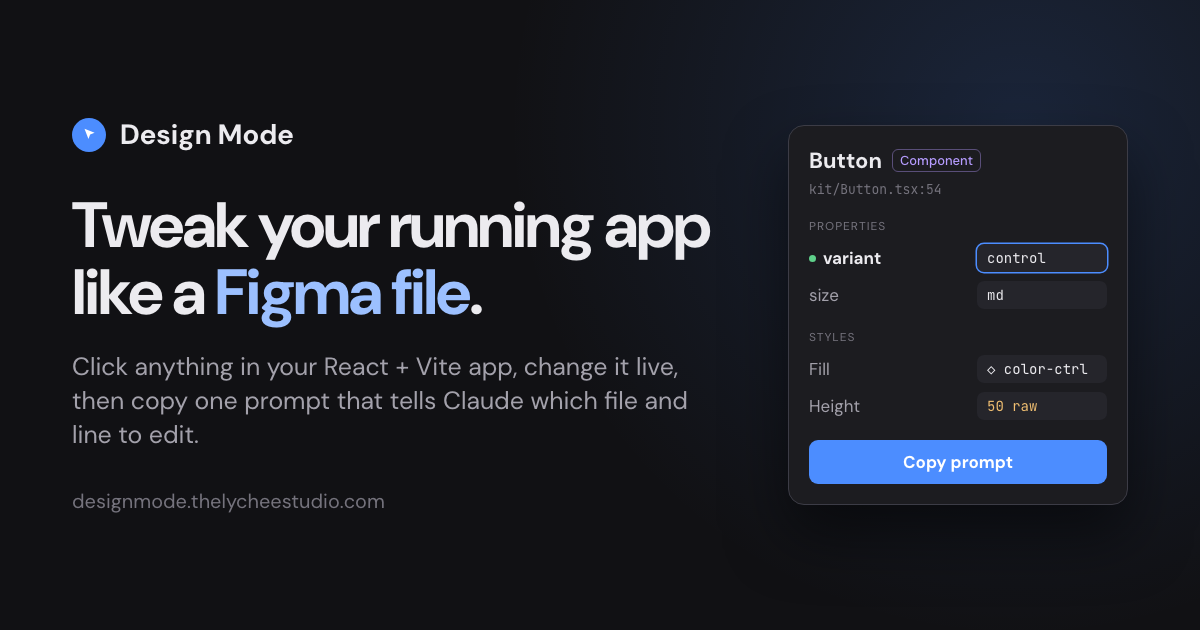
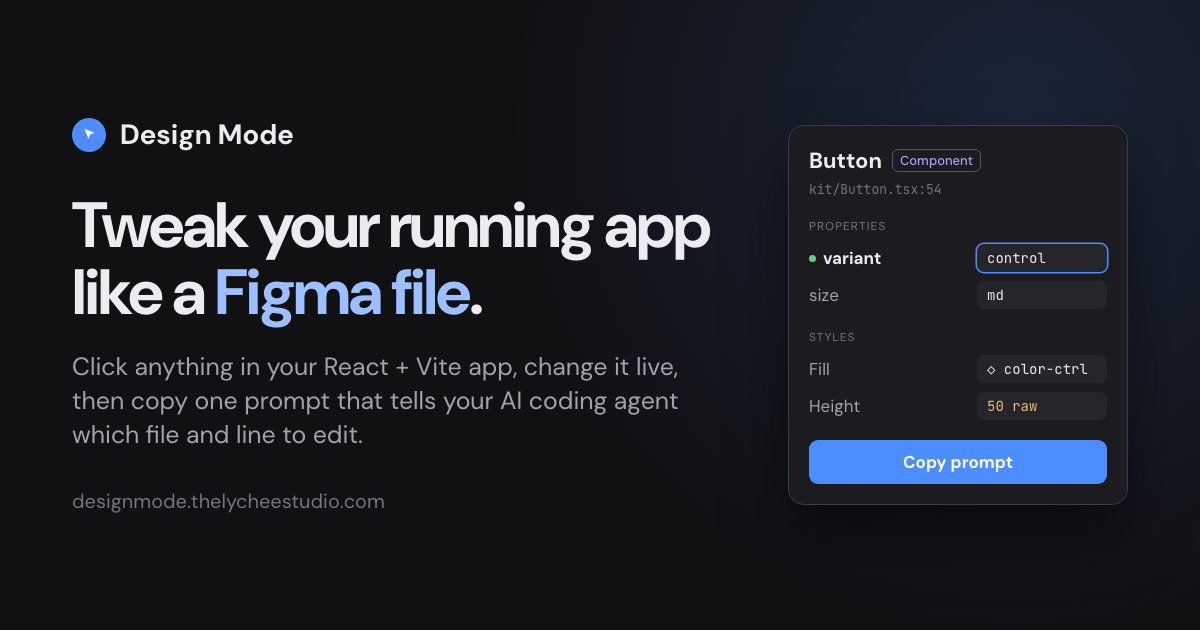
Say 'your coding agent' instead of Claude: the prompt works with any agent

Changed region(s): [[0.0617, 0.6635, 0.3083, 0.7238], [0.37, 0.6032, 0.5858, 0.6635]]

diff --git a/site/index.html b/site/index.html
@@ -3,15 +3,15 @@
 <head>
 <meta charset="utf-8">
 <meta name="viewport" content="width=device-width, initial-scale=1">
-<title>Design Mode: visual editing for React apps, built for Claude</title>
-<meta name="description" content="A free dev-only design inspector for React + Vite. Click anything in your running app, edit props, variants, styles and text live, then copy one prompt for Claude.">
+<title>Design Mode: visual editing for React apps and AI coding agents</title>
+<meta name="description" content="A free dev-only design inspector for React + Vite. Click anything in your running app, edit props, variants, styles and text live, then copy one prompt for any AI coding agent: Claude Code, Cursor, Codex or Copilot.">
 <link rel="canonical" href="https://designmode.thelycheestudio.com/">
 <meta name="robots" content="index, follow, max-image-preview:large">
 <meta name="author" content="Lychee Studio">
 <meta property="og:type" content="website">
 <meta property="og:site_name" content="Design Mode by Lychee Studio">
 <meta property="og:title" content="Design Mode: tweak your running app like a Figma file">
-<meta property="og:description" content="Click anything in your running React app. Change it like you would in Figma. Copy one prompt that tells Claude which file and line to edit.">
+<meta property="og:description" content="Click anything in your running React app. Change it like you would in Figma. Copy one prompt that tells your AI coding agent which file and line to edit.">
 <meta property="og:url" content="https://designmode.thelycheestudio.com/">
 <meta property="og:image" content="https://designmode.thelycheestudio.com/og.png">
 <meta property="og:image:width" content="1200">
@@ -20,7 +20,7 @@
 <meta property="og:locale" content="en_CA">
 <meta name="twitter:card" content="summary_large_image">
 <meta name="twitter:title" content="Design Mode: tweak your running app like a Figma file">
-<meta name="twitter:description" content="Click anything in your running React app, change it live, then copy one prompt for Claude.">
+<meta name="twitter:description" content="Click anything in your running React app, change it live, then copy one prompt for any AI coding agent.">
 <meta name="twitter:image" content="https://designmode.thelycheestudio.com/og.png">
 <meta name="theme-color" content="#111114">
 <link rel="icon" href="/favicon.svg" type="image/svg+xml">
@@ -34,7 +34,7 @@
       "@id": "https://designmode.thelycheestudio.com/#app",
       "name": "Design Mode",
       "url": "https://designmode.thelycheestudio.com/",
-      "description": "A dev-only design inspector for React + Vite apps. Select any element, edit props, variants, styles and text live, and copy one prompt that tells Claude exactly which files and lines to change.",
+      "description": "A dev-only design inspector for React + Vite apps. Select any element, edit props, variants, styles and text live, and copy one prompt that tells any AI coding agent (Claude Code, Cursor, Codex, GitHub Copilot) exactly which files and lines to change.",
       "applicationCategory": "DeveloperApplication",
       "applicationSubCategory": "Design tool",
       "operatingSystem": "macOS, Windows, Linux (any browser running a Vite dev server)",
@@ -48,7 +48,7 @@
         "Apply a change to one instance, one line of code, or every instance",
         "Layers tree of the page, like Figma",
         "Force hover and pressed states",
-        "Copies one prompt for Claude with file, line, old and new values"
+        "Copies one plain-text prompt for any AI coding agent, with file, line, old and new values"
       ],
       "publisher": { "@id": "https://thelycheestudio.com/#org" }
     },
@@ -62,6 +62,7 @@
       "@type": "FAQPage",
       "mainEntity": [
         { "@type": "Question", "name": "Does Design Mode ship to production?", "acceptedAnswer": { "@type": "Answer", "text": "No. It only exists while you run the Vite dev server on your machine. Builds are untouched." } },
+        { "@type": "Question", "name": "Which AI agents does Design Mode work with?", "acceptedAnswer": { "@type": "Answer", "text": "Any agent that can edit your code. The prompt is plain text with file paths, line numbers and before and after values, so it works with Claude Code, Cursor, OpenAI Codex, GitHub Copilot, Windsurf and others." } },
         { "@type": "Question", "name": "Which frameworks does Design Mode support?", "acceptedAnswer": { "@type": "Answer", "text": "React with Vite today. Plain HTML pages and Next.js are planned." } },
         { "@type": "Question", "name": "Where do component variants come from?", "acceptedAnswer": { "@type": "Answer", "text": "From each component's TypeScript types. A prop typed as a union of strings becomes a picker; a plain string gets a text field." } },
         { "@type": "Question", "name": "What happens to my tweaks when I reload?", "acceptedAnswer": { "@type": "Answer", "text": "They live only on the page, so a reload clears them. You are asked first if you haven't copied the prompt yet." } }
@@ -267,8 +268,8 @@
     <header class="hero">
       <div>
         <span class="eyebrow"><i></i>For React + Vite apps · runs in dev only</span>
-        <h1>Tweak your running app like it's a <em>Figma file</em>. Hand the changes to Claude.</h1>
-        <p class="lede">Click anything on the page. Change its variant, its color, its spacing or its text and see it live. Then copy one prompt that tells Claude exactly which file and line to change.</p>
+        <h1>Tweak your running app like it's a <em>Figma file</em>. Hand the changes to your AI agent.</h1>
+        <p class="lede">Click anything on the page. Change its variant, its color, its spacing or its text and see it live. Then copy one prompt that tells your coding agent exactly which file and line to change.</p>
         <div class="ctas">
           <button class="btn primary" type="button" data-try>Try it on this page</button>
           <a class="btn ghost" href="#install">Install in two steps</a>
@@ -316,7 +317,7 @@
       <div class="steps">
         <div class="step"><h3>Select</h3><p>Press the round button and click anything. Design Mode tells you if it's a component or a plain HTML tag, and the exact file and line it was written on.</p></div>
         <div class="step"><h3>Tweak</h3><p>Switch a variant, toggle a prop, pick a color token, nudge the padding, rewrite a label. It changes on the page immediately, and stays changed as the app re-renders.</p></div>
-        <div class="step"><h3>Copy the prompt</h3><p>Every change goes into one prompt: where it is, what it was, what it should be, and how far it should reach. Paste it into Claude and it edits the code.</p></div>
+        <div class="step"><h3>Copy the prompt</h3><p>Every change goes into one prompt: where it is, what it was, what it should be, and how far it should reach. Paste it into Claude Code, Cursor, Codex or any agent that edits code, and it makes the change.</p></div>
       </div>
     </div>
   </section>
@@ -414,6 +415,7 @@ export default defineConfig({
           <tr><td>Your tweaks</td><td>Live only on the page. A reload clears them, and you're asked first if you haven't copied them.</td></tr>
           <tr><td>Variants</td><td>Read from TypeScript. A prop typed as plain <code>string</code> gets a text field instead of options.</td></tr>
           <tr><td>Canvas</td><td>Anything drawn on a <code>&lt;canvas&gt;</code> is one image, so it can be selected only as a whole.</td></tr>
+          <tr><td>AI agents</td><td>Any agent that edits code: Claude Code, Cursor, Codex, GitHub Copilot, Windsurf. The prompt is plain text, so nothing is tied to one tool.</td></tr>
           <tr><td>Frameworks</td><td>React + Vite today. Plain HTML pages and Next.js are planned.</td></tr>
         </table>
       </div>

diff --git a/src/client/controller.ts b/src/client/controller.ts
@@ -177,7 +177,7 @@ export class Controller {
     })
 
     window.addEventListener('beforeunload', (event) => {
-      // Copied changes are safe: they're in the prompt. This matters because Claude
+      // Copied changes are safe: they're in the prompt. This matters because a coding agent
       // applying the prompt makes Vite reload the page, which shouldn't need confirming.
       if (!this.state.enabled || this.state.changes.length === 0 || this.signature() === this.copied) return
       event.preventDefault()
@@ -529,7 +529,7 @@ export class Controller {
     this.toastTimer = window.setTimeout(() => this.set({ toast: null }), 8000)
   }
 
-  /** The Claude prompt for the current changes. */
+  /** The prompt for the current changes, for whichever coding agent you use. */
   prompt(): string {
     return buildPrompt(this.state.changes, this.state.tree)
   }
@@ -545,7 +545,7 @@ export class Controller {
     this.set({ menuOpen: false })
     if (ok) {
       this.copied = this.signature()
-      this.showToast('Prompt copied. Paste it into Claude.')
+      this.showToast('Prompt copied. Paste it into your coding agent.')
     } else {
       this.showToast("Couldn't copy. Select the preview text and copy it instead.")
     }

diff --git a/src/client/prompt.ts b/src/client/prompt.ts
@@ -4,7 +4,7 @@ import { componentsNamed, fileLine, srcOf } from './source'
 import type { LayerTree } from './tree'
 
 /**
- * The prompt you paste into Claude: every change, with where it is in the code, what
+ * The prompt you paste into your coding agent: every change, with where it is in the code, what
  * it was and what it should become, and how far it should reach.
  *
  * Written for a reader who has the code but not the page: values are given the way

diff --git a/src/client/source.ts b/src/client/source.ts
@@ -20,7 +20,7 @@ export function shortSrc(src: string | null): string {
   return `${file.replace(/^src\//, '')}${line ? `:${line}` : ''}`
 }
 
-/** `src/ui/kit/Card.tsx:36:5` → `src/ui/kit/Card.tsx:36`: what the Claude prompt says. */
+/** `src/ui/kit/Card.tsx:36:5` → `src/ui/kit/Card.tsx:36`: what the prompt says. */
 export function fileLine(src: string | null): string {
   if (!src) return ''
   const [file, line] = src.split(':')

diff --git a/src/client/ui/App.tsx b/src/client/ui/App.tsx
@@ -126,7 +126,7 @@ function Launcher({ ctl, s }: { ctl: Controller; s: State }) {
           </button>
           {s.changes.length > 0 && (
             <button class="it" role="menuitem" onClick={() => void ctl.copyPrompt()}>
-              <Icon name="copy" /> Copy prompt for Claude
+              <Icon name="copy" /> Copy prompt
             </button>
           )}
           {s.changes.length > 0 && (

diff --git a/src/client/properties.ts b/src/client/properties.ts
@@ -132,7 +132,7 @@ export interface Value {
   /** A color to show as a swatch, for color properties. */
   swatch: string | null
   inherited: boolean
-  /** The declaration it came from, kept for the Claude prompt (which class to swap). */
+  /** The declaration it came from, kept for the prompt (which class to swap). */
   source: Declaration | null
 }
 

diff --git a/README.md b/README.md
@@ -2,7 +2,8 @@
 
 A dev-only design inspector for React + Vite apps. Click anything in your running
 app, change its props, variants, styles and text live, then copy one prompt that
-tells Claude exactly which files and lines to change. It shows up only while the
+tells your AI coding agent (Claude Code, Cursor, Codex, Copilot…) exactly which files
+and lines to change. It shows up only while the
 app runs with `vite` dev, never in a build.
 
 Site and docs: https://designmode.thelycheestudio.com
@@ -49,7 +50,7 @@ The landing page is in `site/` and deploys to Cloudflare with `npm run deploy:si
 | ⌥⇧D | Turn Design Mode on or off |
 | Snowflake | Freeze: the app gets no input and its animations pause |
 | Show as: Hover / Pressed | Shows the selected element in that state, like DevTools' force state |
-| Copy prompt | In the Changes tab: copies every change for Claude, with file:line, old → new and scope |
+| Copy prompt | In the Changes tab: copies every change as one prompt for your coding agent, with file:line, old → new and scope |
 
 ## How file and line work
 
